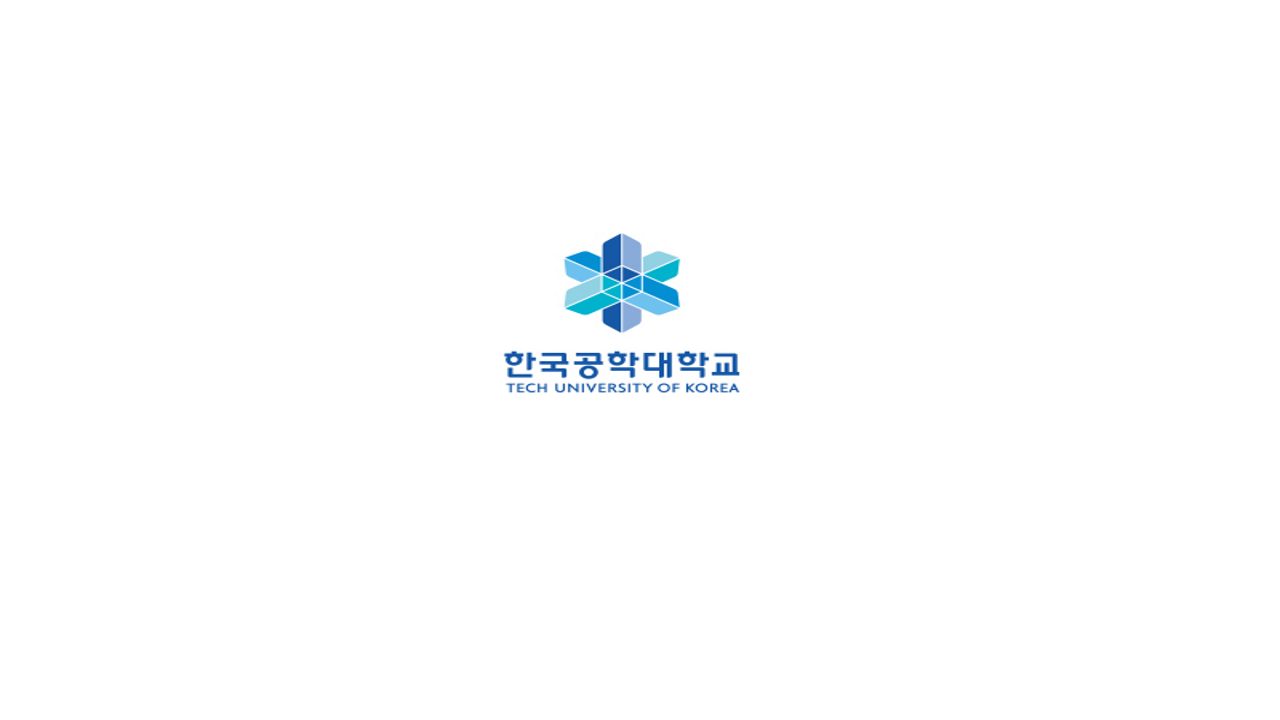
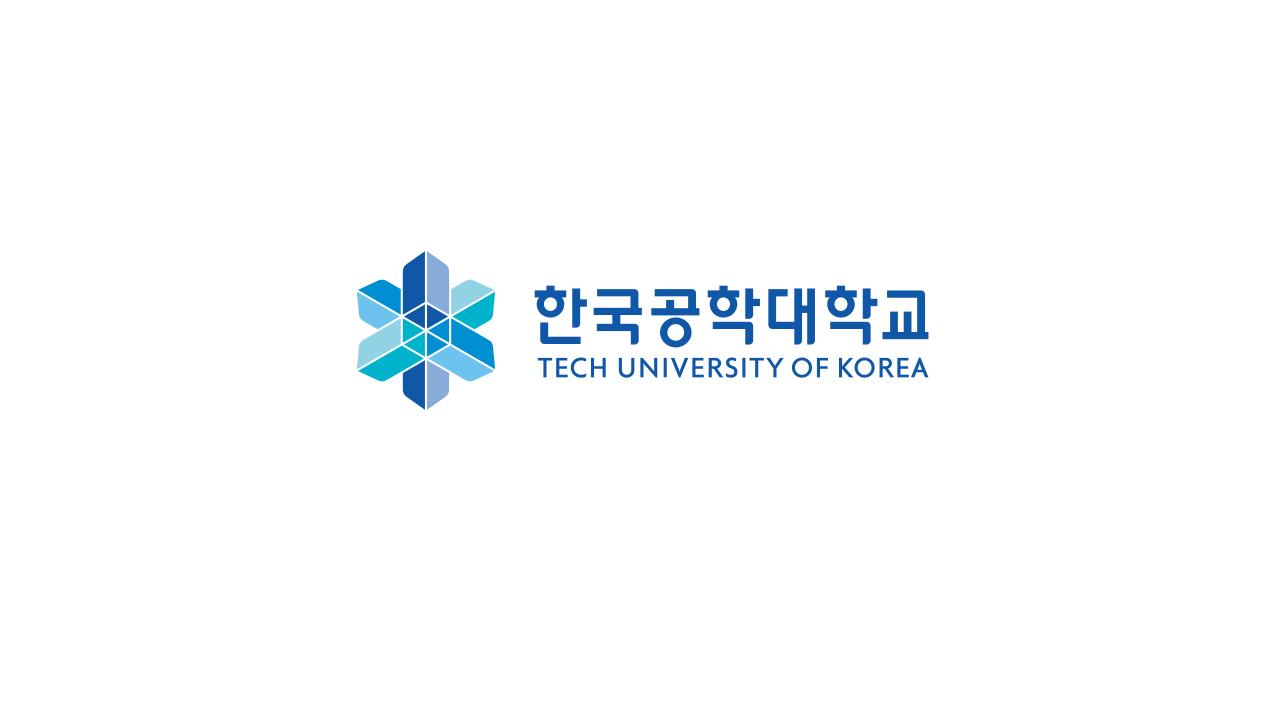
게임 프레임워크 적용(게임이 먼저 뜨는 버그 있음), 학교로고 변경

Changed region(s): [[0.2812, 0.3056, 0.75, 0.5806]]

diff --git a/stage_1.py b/stage_1.py
@@ -1,8 +1,8 @@
 from pico2d import *
 import random
 import game_framework
-# import logo_state
-
+import logo_state
+import title_state
 
 WIDTH, HEIGHT = 1280, 720
 
@@ -28,7 +28,7 @@ def handle_events():
             elif event.key == SDLK_DOWN:
                 diry -= 1
             elif event.key == SDLK_ESCAPE:
-                running = False
+                game_framework.change_state(title_state)
         elif event.type == SDL_KEYUP:
             if event.key == SDLK_v:
                 attack_state = 0
@@ -43,12 +43,12 @@ def handle_events():
 
 
 
-open_canvas(WIDTH, HEIGHT)
+# open_canvas(WIDTH, HEIGHT)
 
 dirx, diry = 0,0
 x = WIDTH//2
 y = HEIGHT//2
-background_spring = load_image('map1_spring_temp.png')
+
 running = True
 stage = 1
 
@@ -65,6 +65,7 @@ class character_class:
         self.hp = 3
         self.direction = 1
         self.character_state = 0
+        self.hp_UI = load_image('hp.png')
 
     def update(self):
         global dirx, diry
@@ -99,6 +100,20 @@ class character_class:
             self.character.clip_draw(self.frame * 59, 56*3 , 59, 56, self.x, self.y, 120, 120)
             self.character_state = 0
 
+        if character.hp == 3:
+            self.hp.draw(400, 50, 50, 50)
+            self.hp.draw(350, 50, 50, 50)
+            self.hp.draw(300, 50, 50, 50)
+        elif character.hp == 2:
+            self.hp.draw(400, 50, 50, 50)
+            self.hp.draw(350, 50, 50, 50)
+        elif character.hp == 1:
+            self.hp.draw(400, 50, 50, 50)
+        else:
+            pass #타이틀 화면으로 가는 프레임워크 코드 넣기
+
+
+
 
         
 
@@ -107,7 +122,7 @@ class monsters:
     def __init__(self):
         rand_x = random.randint(1300, 1700)
         rand_y = random.randint(0, 4+1)
-        monster_y = 0
+        monster_y = 190
         if rand_y == 0:
             monster_y = 650
         elif rand_y == 1:
@@ -118,6 +133,8 @@ class monsters:
             monster_y = 300
         elif rand_y == 4:
             monster_y = 190
+
+        self.hp = 300
 
         self.x, self.y = rand_x, monster_y
         self.frame = 0
@@ -131,71 +148,103 @@ class monsters:
         self.image.clip_draw(self.frame*64, 64*1, 64, 64, self.x, self.y, 120, 120)
 
 
+class tree_object():
+    def __init__(self):
+        self.hp = 200
+        self.object_tree_spring = load_image('tree2.png')
+
+    def draw(self):
+        self.object_tree_spring.draw(400, 650, 120, 120)
+        self.object_tree_spring.draw(400, 300, 120, 120)
+
+class fortess_object():
+    def __init__(self):
+        self.hp = 350
+        self.fortress = load_image('fortress.png')
+
+    def draw(self):
+        self.fortress.draw(700, 530, 120, 120)
+        self.fortress.draw(700, 190, 120, 120)
+
+class UI_DRAWING():
+    def __init__(self):
+        self.background_spring = load_image('map1_spring_temp.png')
+        self.powerup_item = load_image('power_up_arrow.png')
+        self.itembox = load_image('itembox.png')
+        self.potion = load_image('potion.png')
+        self.cannon = load_image('cannon.png')
+        self.attack = load_image('gun.png')
+    def draw(self):
+        self.background_spring.draw(WIDTH//2, HEIGHT//2)
+        self.itembox.draw(600, 60, 300 , 140)
+        self.powerup_item.draw(520, 66, 80, 80)
+        self.potion.draw(600, 60, 80, 80)
+        self.cannon.draw(680, 60, 80, 80)
+        self.attack.draw(800, 60, 80, 80)
 
 
-round1_monster = [monsters() for i in range (20)] #라운드 1에서 몬스터 20마리 출현
-
-# game_framework.run(logo_state)
-
-object_tree_spring = load_image('tree2.png')
-fortress = load_image('fortress.png')
-powerup_item = load_image('power_up_arrow.png')
-itembox = load_image('itembox.png')
-potion = load_image('potion.png')
-cannon = load_image('cannon.png')
-attack = load_image('gun.png')
-hp = load_image('hp.png')
+round1_monster = None
 
 
-character = character_class()
-monster1 = monsters()
-def object_draw():
-    background_spring.draw(WIDTH//2, HEIGHT//2)
-    object_tree_spring.draw(400, 650, 120, 120)
-    fortress.draw(700, 530, 120, 120)
-    object_tree_spring.draw(400, 300, 120, 120)
-    fortress.draw(700, 190, 120, 120)
-    itembox.draw(600, 60, 300 , 140)
-    powerup_item.draw(520, 66, 80, 80)
-    potion.draw(600, 60, 80, 80)
-    cannon.draw(680, 60, 80, 80)
-    attack.draw(800, 60, 80, 80)
-    if character.hp == 3:
-        hp.draw(400, 50, 50, 50)
-        hp.draw(350, 50, 50, 50)
-        hp.draw(300, 50, 50, 50)
-    elif character.hp == 2:
-        hp.draw(400, 50, 50, 50)
-        hp.draw(350, 50, 50, 50)
-    elif character.hp == 1:
-        hp.draw(400, 50, 50, 50)
-    else:
-        game_framework.quit()
-    
+character = None
+# monster1 = None
+trees = None
+UI = None
+fortress = None
 
-while running:
-    clear_canvas()
-    
-    object_draw()   
-    handle_events()
+def enter():
+    global character, monster1, trees
+    character = character_class()
+    round1_monster = [monsters() for i in range (20)] #라운드 1에서 몬스터 20마리 출현
+    trees = tree_object()
+    UI = UI_DRAWING()
+    fortress = fortess_object()
+    running = True
+
+def update():
     character.update()
-    for monsters in round1_monster:
-        monsters.update()
-
-    character.draw()
+    round1_monster.update()
     
-    for monsters in round1_monster:
-        monsters.draw()
 
 
+
+def exit():
+    global character, round1_monster
+    del character
+    del round1_monster
+
+def draw():
+    clear_canvas()
+    character.draw()
+    round1_monster.draw()
+    trees.draw()
+    UI.draw()
+    fortress.draw()
     update_canvas()
 
-    delay(0.07)
 
-    handle_events()
+# while running:
+#     clear_canvas()    
+#     object_draw()   
+#     handle_events()
+#     character.update()
+#     for monsters in round1_monster:
+#         monsters.update()
+
+#     character.draw()
+    
+#     for monsters in round1_monster:
+#         monsters.draw()
+
+
+#     update_canvas()
+
+#     delay(0.07)
+
+#     handle_events()
 
 
 
 
 
-close_canvas()
+# close_canvas()

diff --git a/main.py b/main.py
@@ -1,0 +1,26 @@
+import pico2d
+import play_state
+import logo_state
+import title_state
+pico2d.open_canvas()
+start_state = logo_state #모듈을 변수로 취급.
+start_state.enter()
+
+# game main loop code
+# while start_state.running:
+#     start_state.handle_events()
+#     start_state.update()
+#     start_state.draw()
+#     pico2d.delay(0.05)
+# start_state.exit()
+
+states = [logo_state, title_state, stage_1]
+for state in states:
+    state.enter()
+    while state.running:
+        state.handle_events()
+        state.update()
+        state.draw()
+    state.exit()
+
+pico2d.close_canvas()

diff --git a/title_state.py b/title_state.py
@@ -2,7 +2,7 @@ from pico2d import *
 
 import game_framework
 import play_state
-
+import stage_1
 image = None
 
 def enter():
@@ -21,7 +21,7 @@ def handle_events():
         elif event.type == SDL_KEYDOWN and event.key == SDLK_ESCAPE:
             game_framework.quit()
         elif event.type == SDL_KEYDOWN and event.key == SDLK_SPACE:
-            game_framework.change_state(play_state)
+            game_framework.change_state(stage_1)
 
 
 def draw():

diff --git a/logo_state.py b/logo_state.py
@@ -2,6 +2,8 @@ from pico2d import *
 import game_framework
 import play_state
 import title_state
+import stage_1
+
 # running = True
 image = None
 logo_time = 0.0
@@ -22,7 +24,7 @@ def update():
 
     if logo_time >= 0.5:
         logo_time = 0
-        game_framework.change_state(game)
+        game_framework.change_state(title_state)
 
 def draw():
     clear_canvas()

diff --git a/game_start.py b/game_start.py
@@ -1,7 +1,8 @@
 import pico2d
 import game_framework
-import title_state
+import stage_1
 import logo_state
-pico2d.open_canvas()
-game_framework.run(logo_state)
+pico2d.open_canvas(1280, 720)
+game_framework.run(logo_state) #테스트를 위해 로고말고 바로 들어감
 pico2d.clear_canvas()
+
